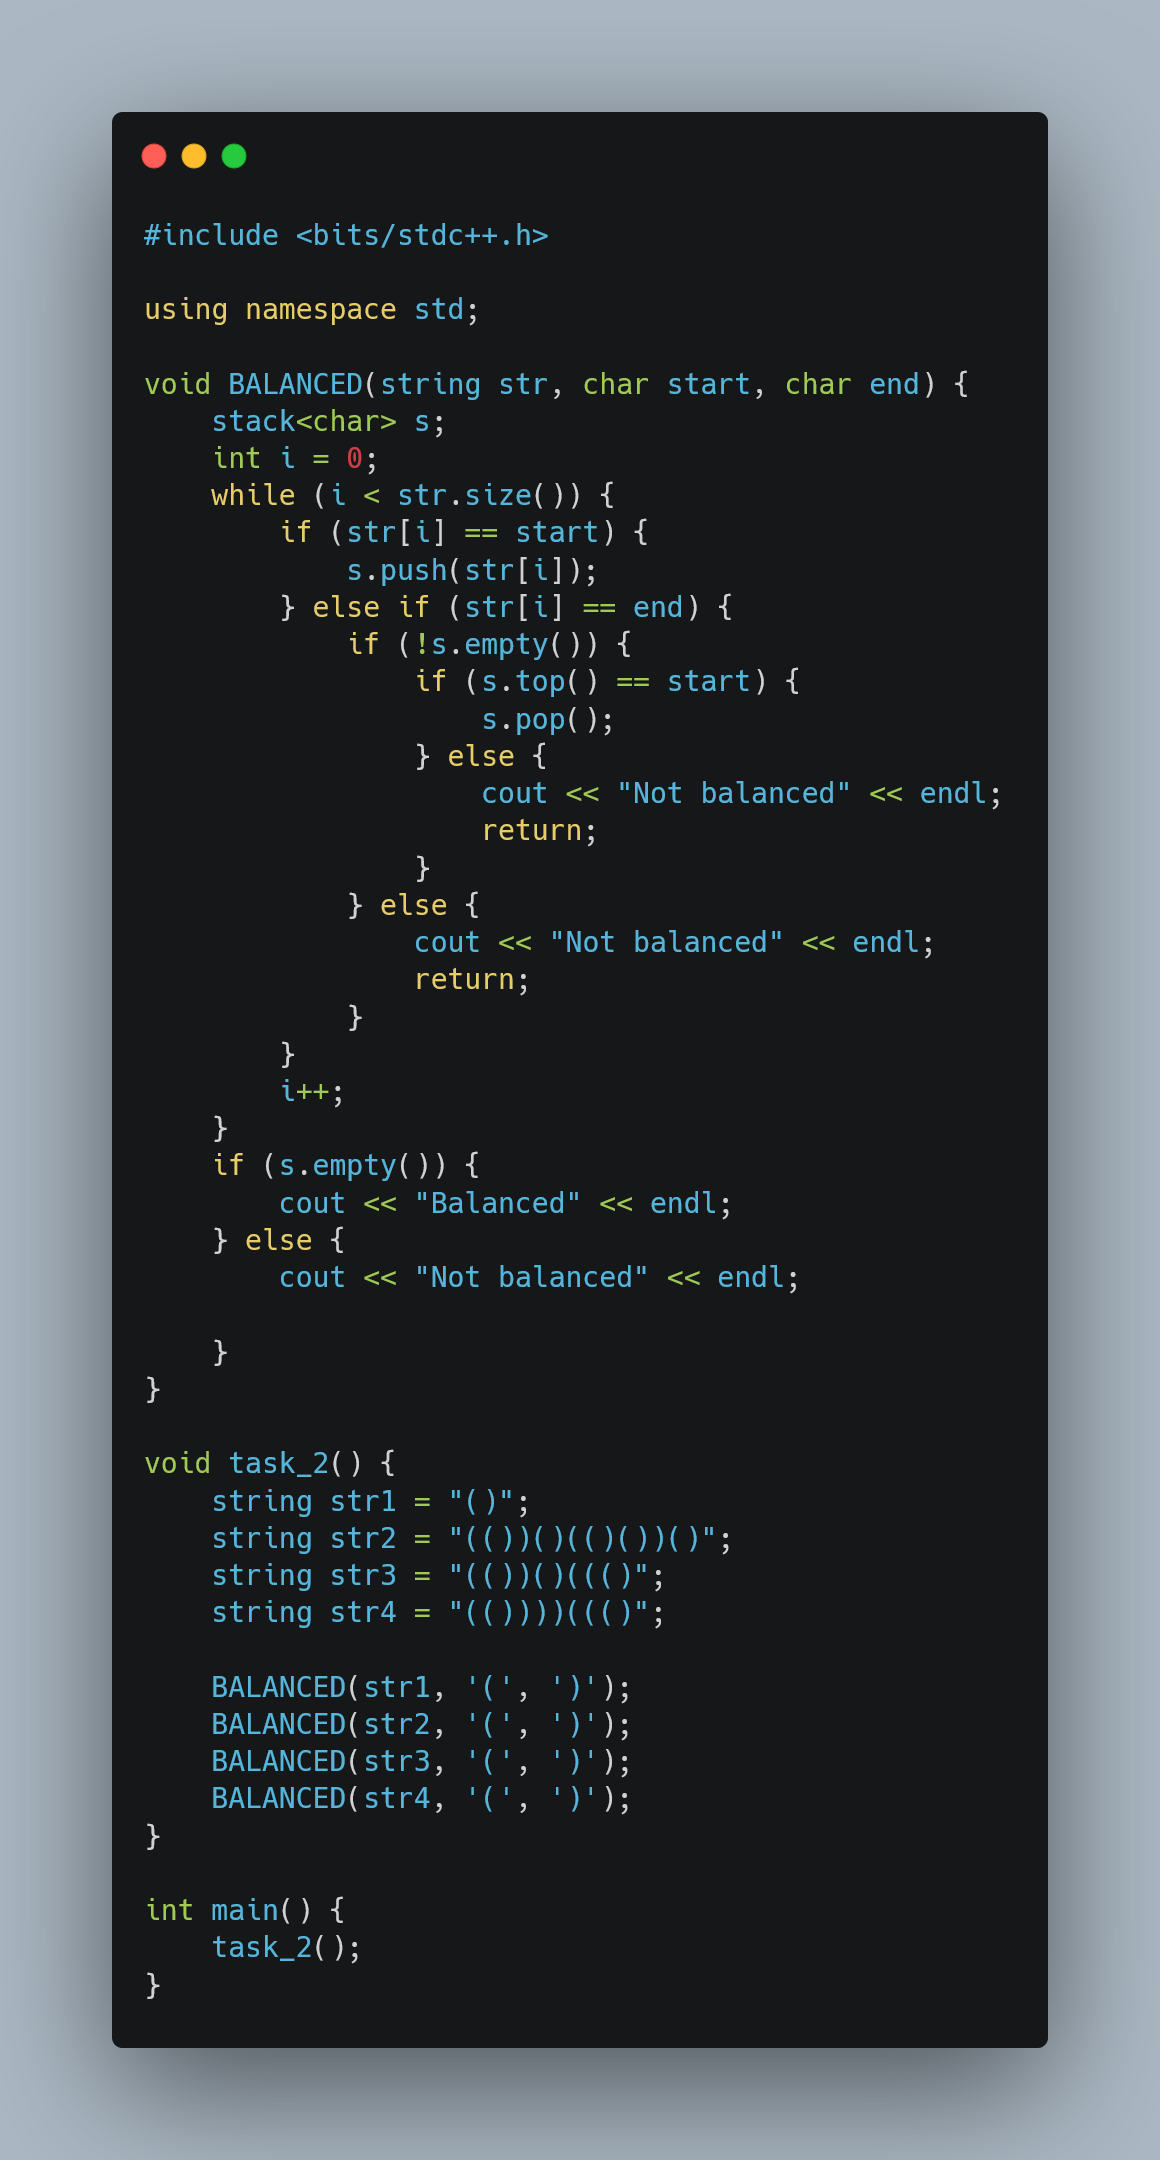
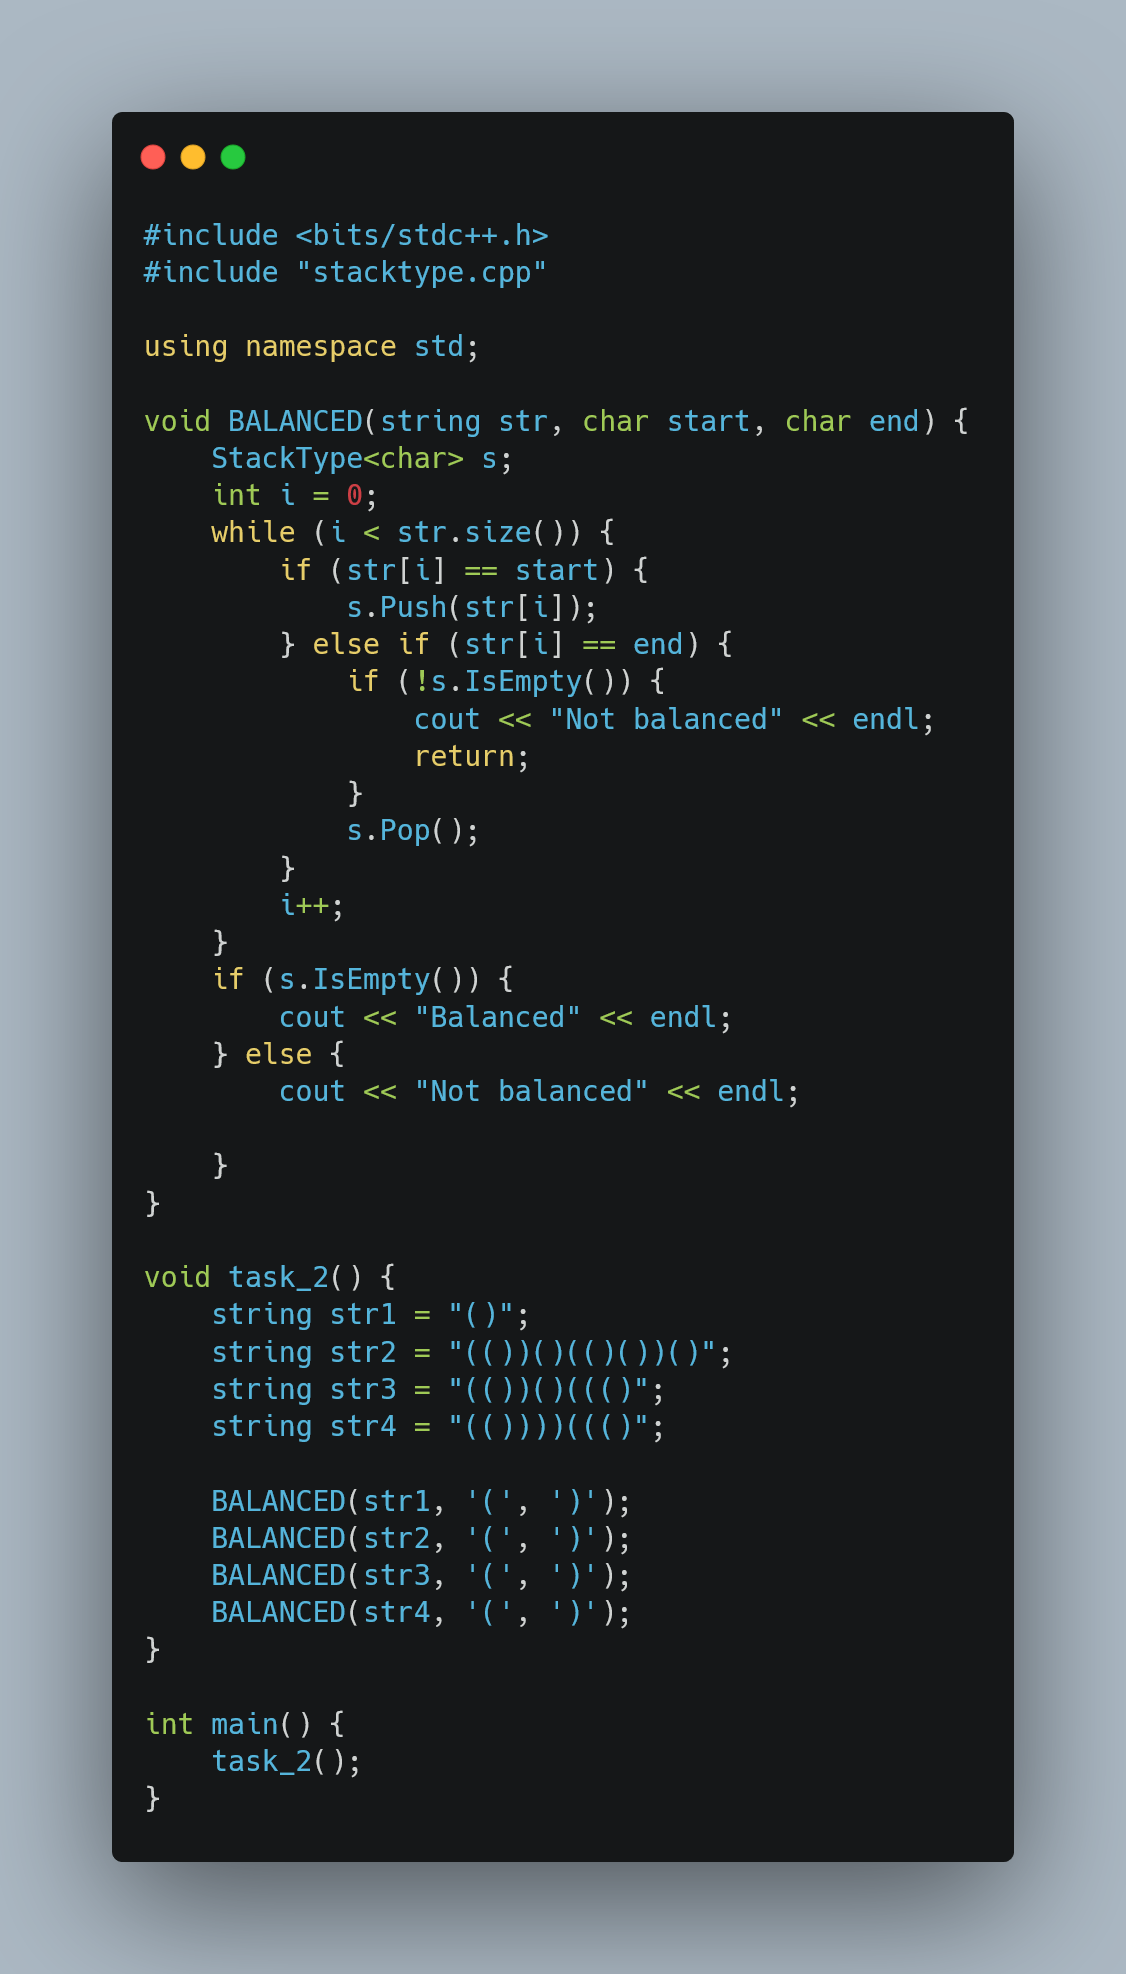
Lab 8

diff --git a/C++/Lab/Lab_8/Task_2/main.cpp b/C++/Lab/Lab_8/Task_2/main.cpp
@@ -1,17 +1,18 @@
 #include <bits/stdc++.h>
+#include "stacktype.cpp"
 
 using namespace std;
 
 void BALANCED(string str, char start, char end) {
-    stack<char> s;
+    StackType<char> s;
     int i = 0;
     while (i < str.size()) {
         if (str[i] == start) {
-            s.push(str[i]);
+            s.Push(str[i]);
         } else if (str[i] == end) {
-            if (!s.empty()) {
-                if (s.top() == start) {
-                    s.pop();
+            if (!s.IsEmpty()) {
+                if (s.Top() == start) {
+                    s.Pop();
                 } else {
                     cout << "Not balanced" << endl;
                     return;
@@ -23,7 +24,7 @@ void BALANCED(string str, char start, char end) {
         }
         i++;
     }
-    if (s.empty()) {
+    if (s.IsEmpty()) {
         cout << "Balanced" << endl;
     } else {
         cout << "Not balanced" << endl;

diff --git a/C++/clion/stacktype.cpp b/C++/clion/stacktype.cpp
@@ -1,0 +1,44 @@
+#include <iostream>
+#include "stackType.h"
+
+template<class ItemType>
+StackType<ItemType>::StackType() {
+    top = -1;
+}
+
+template<class ItemType>
+bool StackType<ItemType>::IsEmpty() {
+    return (top == -1);
+}
+
+template<class ItemType>
+bool StackType<ItemType>::IsFull() {
+    return (top == MAX_ITEMS - 1);
+}
+
+template<class ItemType>
+void StackType<ItemType>::Push(ItemType newItem) {
+    if (IsFull()) throw FullStack();
+    top++;
+    items[top] = newItem;
+}
+
+template<class ItemType>
+void StackType<ItemType>::Pop() {
+    if (IsEmpty()) throw EmptyStack();
+    top--;
+}
+
+template<class ItemType>
+ItemType StackType<ItemType>::Top() {
+    if (IsEmpty()) throw EmptyStack();
+    return items[top];
+}
+
+template <class ItemType>
+void StackType<ItemType>::displayStack()
+{
+    for (int i = 0; i <= top; i++) {
+        std::cout<<items[i]<< " ";
+    }
+}

diff --git a/C++/Lab/Lab_8/Common/stacktype.cpp b/C++/Lab/Lab_8/Common/stacktype.cpp
@@ -1,0 +1,35 @@
+#include "stackType.h"
+
+template<class ItemType>
+StackType<ItemType>::StackType() {
+    top = -1;
+}
+
+template<class ItemType>
+bool StackType<ItemType>::IsEmpty() {
+    return (top == -1);
+}
+
+template<class ItemType>
+bool StackType<ItemType>::IsFull() {
+    return (top == MAX_ITEMS - 1);
+}
+
+template<class ItemType>
+void StackType<ItemType>::Push(ItemType newItem) {
+    if (IsFull()) throw FullStack();
+    top++;
+    items[top] = newItem;
+}
+
+template<class ItemType>
+void StackType<ItemType>::Pop() {
+    if (IsEmpty()) throw EmptyStack();
+    top--;
+}
+
+template<class ItemType>
+ItemType StackType<ItemType>::Top() {
+    if (IsEmpty()) throw EmptyStack();
+    return items[top];
+} 

diff --git a/C++/Lab/Lab_8/Task_2/stacktype.cpp b/C++/Lab/Lab_8/Task_2/stacktype.cpp
@@ -1,0 +1,35 @@
+#include "stackType.h"
+
+template<class ItemType>
+StackType<ItemType>::StackType() {
+    top = -1;
+}
+
+template<class ItemType>
+bool StackType<ItemType>::IsEmpty() {
+    return (top == -1);
+}
+
+template<class ItemType>
+bool StackType<ItemType>::IsFull() {
+    return (top == MAX_ITEMS - 1);
+}
+
+template<class ItemType>
+void StackType<ItemType>::Push(ItemType newItem) {
+    if (IsFull()) throw FullStack();
+    top++;
+    items[top] = newItem;
+}
+
+template<class ItemType>
+void StackType<ItemType>::Pop() {
+    if (IsEmpty()) throw EmptyStack();
+    top--;
+}
+
+template<class ItemType>
+ItemType StackType<ItemType>::Top() {
+    if (IsEmpty()) throw EmptyStack();
+    return items[top];
+} 

diff --git a/C++/clion/stacktype.h b/C++/clion/stacktype.h
@@ -1,0 +1,40 @@
+#ifndef CLION_STACKTYPE_H
+#define CLION_STACKTYPE_H
+
+const int MAX_ITEMS = 5;
+
+class FullStack
+// Exception class thrown
+// by Push when stack is full.
+{
+};
+
+class EmptyStack
+// Exception class thrown
+// by Pop and Top when stack is emtpy.
+{
+};
+
+template<class ItemType>
+class StackType {
+public:
+    StackType();
+
+    bool IsFull();
+
+    bool IsEmpty();
+
+    void Push(ItemType);
+
+    void Pop();
+
+    ItemType Top();
+
+    void displayStack();
+
+private:
+    int top;
+    ItemType items[MAX_ITEMS];
+};
+
+#endif //CLION_STACKTYPE_H

diff --git a/C++/Lab/Lab_8/Common/stacktype.h b/C++/Lab/Lab_8/Common/stacktype.h
@@ -1,0 +1,38 @@
+#ifndef CLION_STACKTYPE_H
+#define CLION_STACKTYPE_H
+
+const int MAX_ITEMS = 5;
+
+class FullStack
+// Exception class thrown
+// by Push when stack is full.
+{
+};
+
+class EmptyStack
+// Exception class thrown
+// by Pop and Top when stack is emtpy.
+{
+};
+
+template<class ItemType>
+class StackType {
+public:
+    StackType();
+
+    bool IsFull();
+
+    bool IsEmpty();
+
+    void Push(ItemType);
+
+    void Pop();
+
+    ItemType Top();
+
+private:
+    int top;
+    ItemType items[MAX_ITEMS];
+};
+
+#endif //CLION_STACKTYPE_H

diff --git a/C++/Lab/Lab_8/Task_2/stacktype.h b/C++/Lab/Lab_8/Task_2/stacktype.h
@@ -1,0 +1,38 @@
+#ifndef CLION_STACKTYPE_H
+#define CLION_STACKTYPE_H
+
+const int MAX_ITEMS = 5;
+
+class FullStack
+// Exception class thrown
+// by Push when stack is full.
+{
+};
+
+class EmptyStack
+// Exception class thrown
+// by Pop and Top when stack is emtpy.
+{
+};
+
+template<class ItemType>
+class StackType {
+public:
+    StackType();
+
+    bool IsFull();
+
+    bool IsEmpty();
+
+    void Push(ItemType);
+
+    void Pop();
+
+    ItemType Top();
+
+private:
+    int top;
+    ItemType items[MAX_ITEMS];
+};
+
+#endif //CLION_STACKTYPE_H

diff --git a/C++/clion/main.cpp b/C++/clion/main.cpp
@@ -3,33 +3,10 @@
 
 using namespace std;
 
-template<class T>
-void IS_FULL(QueType<T> *queue) {
-    if (queue->IsFull()) {
-        cout << "Stack is full" << endl;
-    } else {
-        cout << "Stack is not Empty" << endl;
-    }
-}
-
-template<class T>
-void IS_EMPTY(QueType<T> *queue) {
-    if (queue->IsEmpty()) {
-        cout << "Stack is Empty" << endl;
-    } else {
-        cout << "Stack is not Empty" << endl;
-    }
-}
-
-void task_1() {
-
-}
 
 void task_2() {
-
 }
 
 int main() {
-    task_1();
     task_2();
 }

diff --git a/C++/Lab/Lab_8/README.md b/C++/Lab/Lab_8/README.md
@@ -9,16 +9,16 @@ the header file or the source file.
 
 ![Lab 8 Task 1.cpp](https://github.com/IAFahim/CSE225/blob/master/C%2B%2B/Lab/Lab_8/Task_1/main.cpp.png)
 
-**Task 1 Header file**
-`#include "stacktype.h"`
-
-![Lab 8 Task 1 header file](https://github.com/IAFahim/CSE225/blob/master/C%2B%2B/Lab/Lab_8/Task_1/stacktype.h.png)
-
-**Task 1 Cpp file**
-`stacktype.cpp`
-
-![Lab 8 Task 1 header file](https://github.com/IAFahim/CSE225/blob/master/C%2B%2B/Lab/Lab_8/Task_1/stacktype.cpp.png)
-
 ## Task2:
 
 ![Lab 8 Task 2.cpp](https://github.com/IAFahim/CSE225/blob/master/C%2B%2B/Lab/Lab_8/Task_2/main.cpp.png)
+
+**Task 1 & 2 Header file**
+`#include "stacktype.h"`
+
+![Lab 8 Task 1 & 2 header file](https://github.com/IAFahim/CSE225/blob/master/C%2B%2B/Lab/Lab_8/Common/stacktype.h.png)
+
+**Task 1 2 Cpp file**
+`stacktype.cpp`
+
+![Lab 8 Task 1 & 2 header file](https://github.com/IAFahim/CSE225/blob/master/C%2B%2B/Lab/Lab_8/Common/stacktype.cpp.png)
